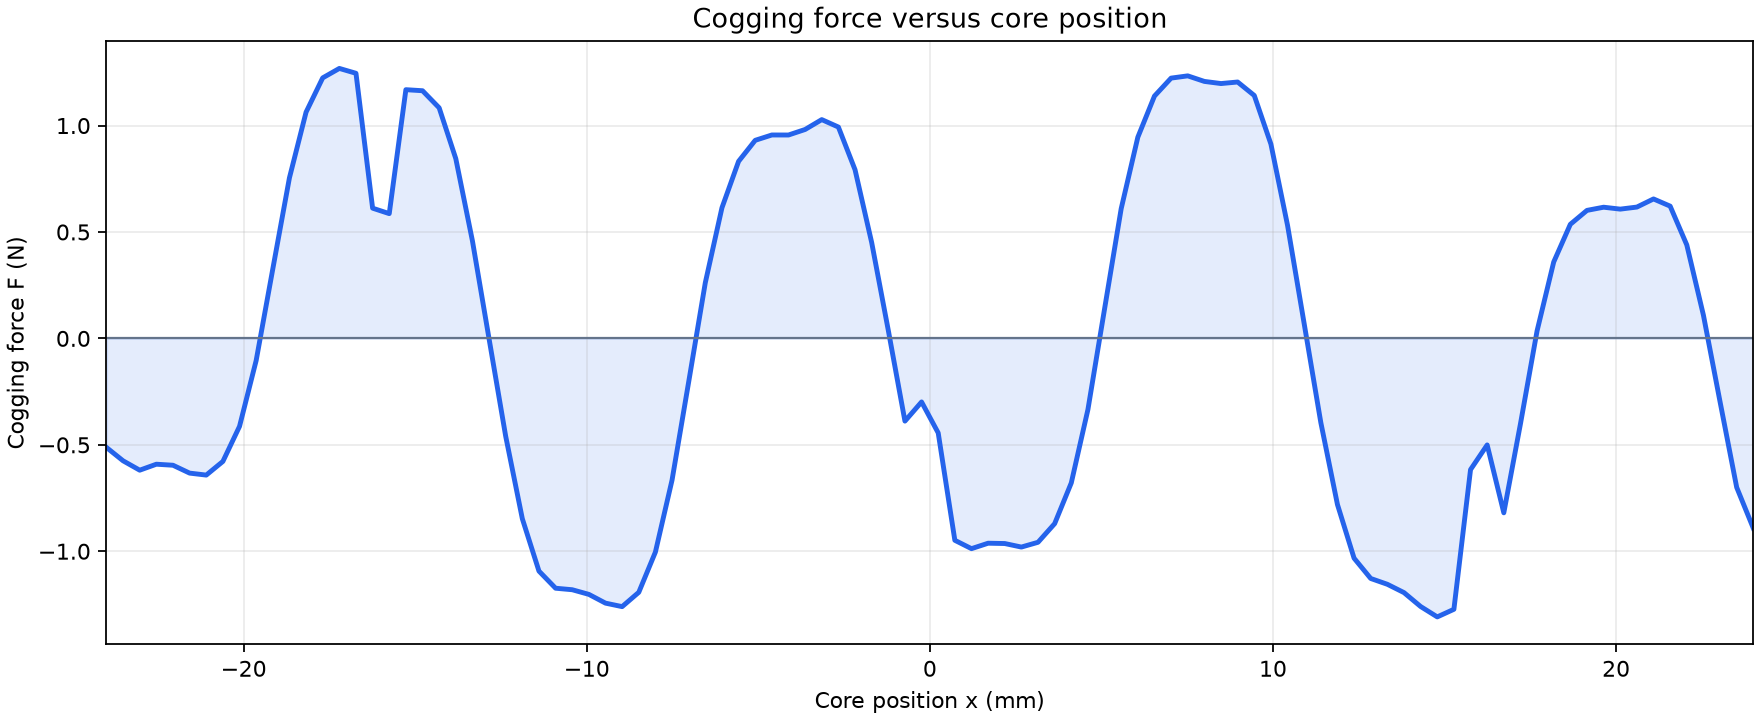
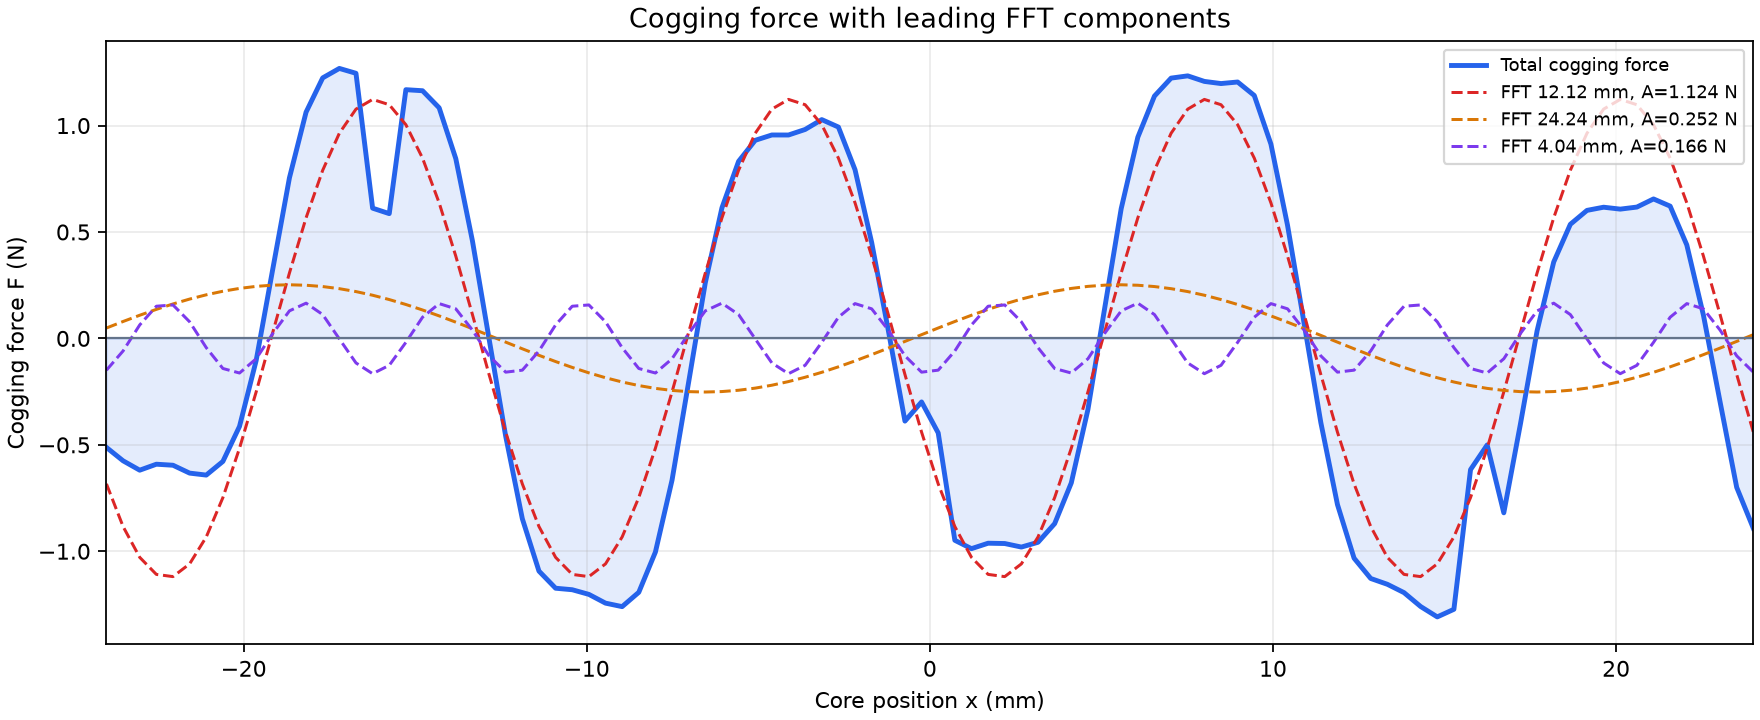
feat: show leading FFT cogging components

diff --git a/cogging_fdm.py b/cogging_fdm.py
@@ -19,7 +19,8 @@ H = 0.5
 SINGLE_CORE = "--single-core" in sys.argv
 CORE_OTHER_SIDE = "--core-other-side" in sys.argv
 NO_SIDE = "--no-side" in sys.argv
-ANIMATE = "--animate" in sys.argv
+CURVE_ONLY = "--curve-only" in sys.argv
+ANIMATE = "--animate" in sys.argv or CURVE_ONLY
 ANIMATION_FRAMES = int(sys.argv[sys.argv.index("--frames") + 1]) if "--frames" in sys.argv else 200
 if ANIMATION_FRAMES < 4 or ANIMATION_FRAMES % 2:
     raise SystemExit("--frames must be an even integer of at least 4")
@@ -235,12 +236,12 @@ if "--render" in sys.argv:
     print(json.dumps({"field_map": output_path, "array": array, "iron_area_mm2": round(IRON_AREA_MM2, 3)}, ensure_ascii=False))
     sys.exit(0)
 
-if "--animate" in sys.argv:
+if ANIMATE:
     from matplotlib import animation
     from matplotlib import pyplot as plt
     from matplotlib.patches import Rectangle
 
-    output_path = sys.argv[sys.argv.index("--animate") + 1]
+    output_path = sys.argv[sys.argv.index("--animate") + 1] if "--animate" in sys.argv else None
     sample_positions = np.linspace(-24.0, 24.0, ANIMATION_FRAMES // 2)
     core_positions = np.concatenate((sample_positions, sample_positions[::-1]))
     magnitudes_mt = []
@@ -322,13 +323,30 @@ if "--animate" in sys.argv:
     if "--curve" in sys.argv:
         curve_path = sys.argv[sys.argv.index("--curve") + 1]
         curve_figure, curve_axis = plt.subplots(figsize=(11, 4.5), constrained_layout=True)
-        curve_axis.plot(sample_positions, force_samples, color="#2563eb", linewidth=2.2)
+        curve_axis.plot(sample_positions, force_samples, color="#2563eb", linewidth=2.2, label="Total cogging force")
         curve_axis.fill_between(sample_positions, force_samples, 0.0, color="#2563eb", alpha=0.12)
+        force_fft = np.fft.rfft(force_samples - force_samples.mean())
+        component_indexes = np.argsort(np.abs(force_fft[1:]))[-3:] + 1
+        component_indexes = component_indexes[np.argsort(np.abs(force_fft[component_indexes]))[::-1]]
+        sample_indexes = np.arange(len(force_samples))
+        sample_step = sample_positions[1] - sample_positions[0]
+        component_colors = ("#dc2626", "#d97706", "#7c3aed")
+        for component_index, color in zip(component_indexes, component_colors):
+            amplitude = 2 * abs(force_fft[component_index]) / len(force_samples)
+            phase = np.angle(force_fft[component_index])
+            component = amplitude * np.cos(2 * np.pi * component_index * sample_indexes / len(force_samples) + phase)
+            period_mm = sample_step * len(force_samples) / component_index
+            curve_axis.plot(sample_positions, component, "--", color=color, linewidth=1.35, label=f"FFT {period_mm:.2f} mm, A={amplitude:.3f} N")
         curve_axis.axhline(0.0, color="#64748b", linewidth=1)
-        curve_axis.set(title="Cogging force versus core position", xlabel="Core position x (mm)", ylabel="Cogging force F (N)", xlim=(-24, 24))
+        curve_axis.set(title="Cogging force with leading FFT components", xlabel="Core position x (mm)", ylabel="Cogging force F (N)", xlim=(-24, 24))
         curve_axis.grid(alpha=0.25)
+        curve_axis.legend(loc="upper right", fontsize=8)
         curve_figure.savefig(curve_path, dpi=160)
         plt.close(curve_figure)
+
+    if CURVE_ONLY:
+        print(json.dumps({"curve": curve_path if "--curve" in sys.argv else None, "samples": len(sample_positions), "force_peak_to_peak_N": round(float(forces.max() - forces.min()), 4)}, ensure_ascii=False))
+        sys.exit(0)
 
     movie = animation.FuncAnimation(figure, draw_frame, frames=len(core_positions), interval=120)
     movie.save(output_path, writer=animation.PillowWriter(fps=15), dpi=110)

diff --git a/.monkeycode/specs/fft-cogging-components/design.md b/.monkeycode/specs/fft-cogging-components/design.md
@@ -1,0 +1,24 @@
+# FFT 齿槽力分量显示
+
+Feature Name: fft-cogging-components
+Updated: 2026-08-07
+
+## Description
+
+对每条 100 点齿槽力曲线执行实数 FFT，保留幅值最大的三个非直流频谱分量，并与总齿槽力曲线叠加显示。
+
+## Components and Interfaces
+
+- `cogging_fdm.py --curve-only --curve <path>`：计算力样本、生成 FFT 分量虚线并输出曲线 PNG。
+
+## Correctness Properties
+
+- FFT 直流分量不参与主要分量排序。
+- 分量振幅采用单边谱幅值 `2 × |FFT| / N`。
+- 图例显示每个分量的空间周期与振幅。
+
+## Test Strategy
+
+- 执行 Python 编译检查。
+- 生成七条曲线并检查标题、虚线和图例。
+- 使用图片分析核验曲线可读性。

diff --git a/.monkeycode/specs/fft-cogging-components/requirements.md b/.monkeycode/specs/fft-cogging-components/requirements.md
@@ -1,0 +1,18 @@
+# Requirements Document
+
+## Introduction
+
+在每种磁铁方案的齿槽力曲线中显示主要 FFT 空间谐波分量。
+
+## Requirements
+
+### Requirement 1
+
+**User Story:** AS 电机设计人员, I want 查看齿槽力的主要频率分量, so that 我可以判断波形由哪些空间谐波构成。
+
+#### Acceptance Criteria
+
+1. THE curve generator SHALL calculate the discrete Fourier transform from the 100 single-pass force samples.
+2. THE curve renderer SHALL select the three largest non-DC Fourier components by amplitude.
+3. THE curve renderer SHALL display every selected component as a dashed line.
+4. THE curve renderer SHALL label every selected component with spatial period in millimetres and amplitude in newtons.

diff --git a/specs/multi-magnet-field-maps/requirements.md b/specs/multi-magnet-field-maps/requirements.md
@@ -26,6 +26,7 @@
 6. THE field-map generator SHALL export a 200-frame GIF for each field-map scenario with the iron core moving in the sequence -24 mm, +24 mm, -24 mm relative to the magnet array.
 7. THE GIF renderer SHALL show a force-direction arrow on the iron core, scale the arrow length by the instantaneous cogging-force magnitude, and display the core position and force value.
 8. THE field-map generator SHALL export a cogging-force versus core-position curve for each GIF scenario.
+9. THE curve generator SHALL calculate the discrete Fourier transform of each force curve and render the three largest non-DC components as dashed lines with spatial-period and amplitude labels.
 
 ### Requirement 2
 

diff --git a/specs/multi-magnet-field-maps/design.md b/specs/multi-magnet-field-maps/design.md
@@ -12,6 +12,7 @@ Updated: 2026-08-06
 - `cogging_fdm.py`：新增有限磁铁阵列参数、无侧片方案和 14.04 度、26.565 度斜贴几何，导出 PNG 场图。
 - `halbach_field_n52.html`：为全部预计算场图提供选择按钮和场景说明。
 - `cogging_fdm.py --animate`：以 200 帧计算有限阵列的移动位置能量导数并导出带齿槽力箭头的 GIF 与力-位置曲线；曲线使用 100 个单程位置点。
+- `cogging_fdm.py --curve-only`：复用 100 个位置点计算力曲线，利用 FFT 提取三个幅值最大的非直流分量，并以虚线叠加显示。
 
 ## Correctness Properties
 
